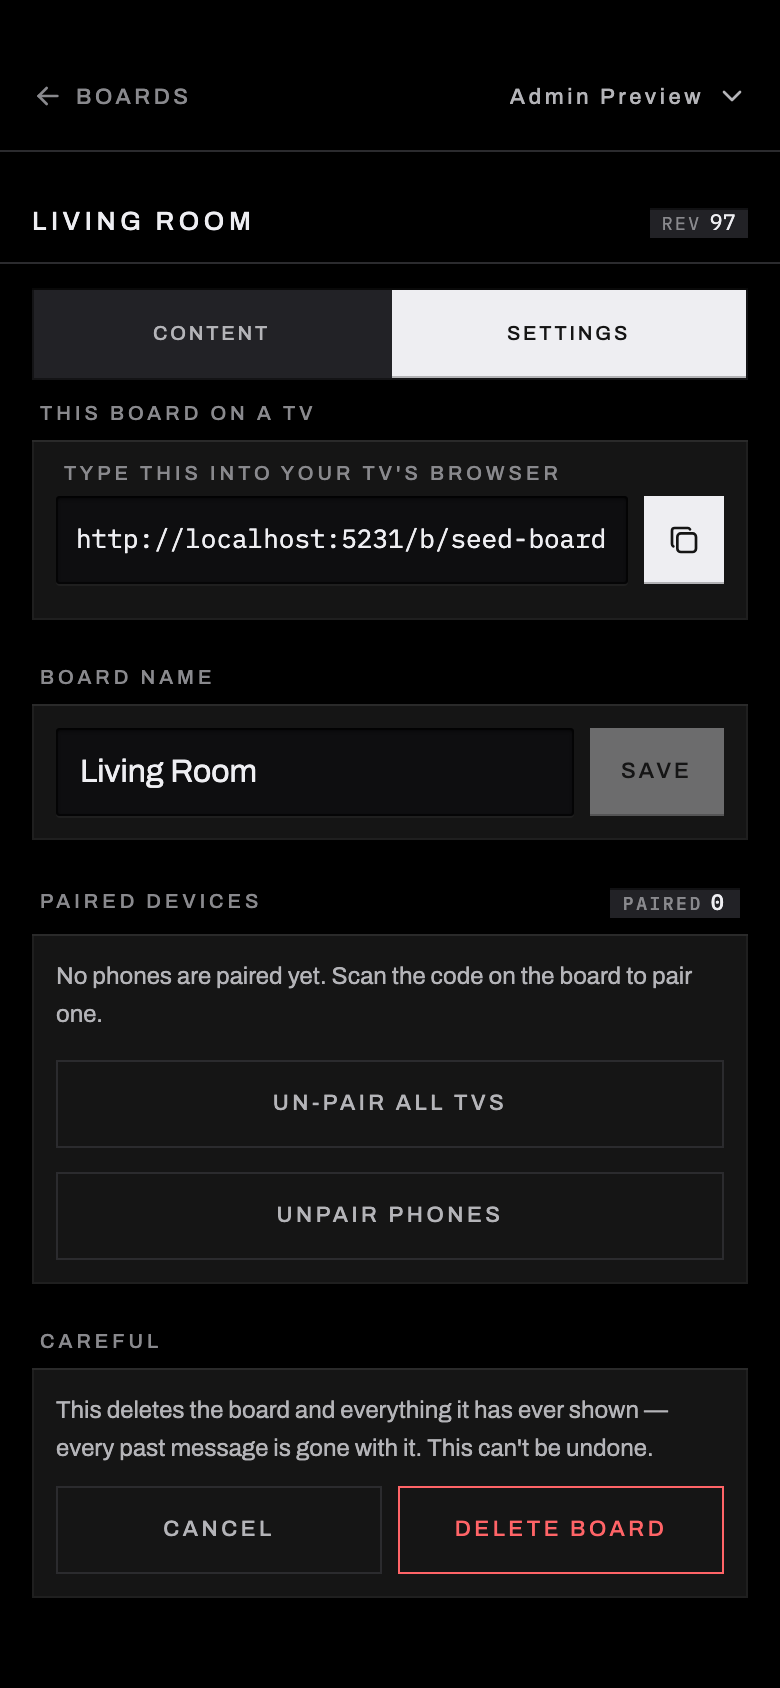
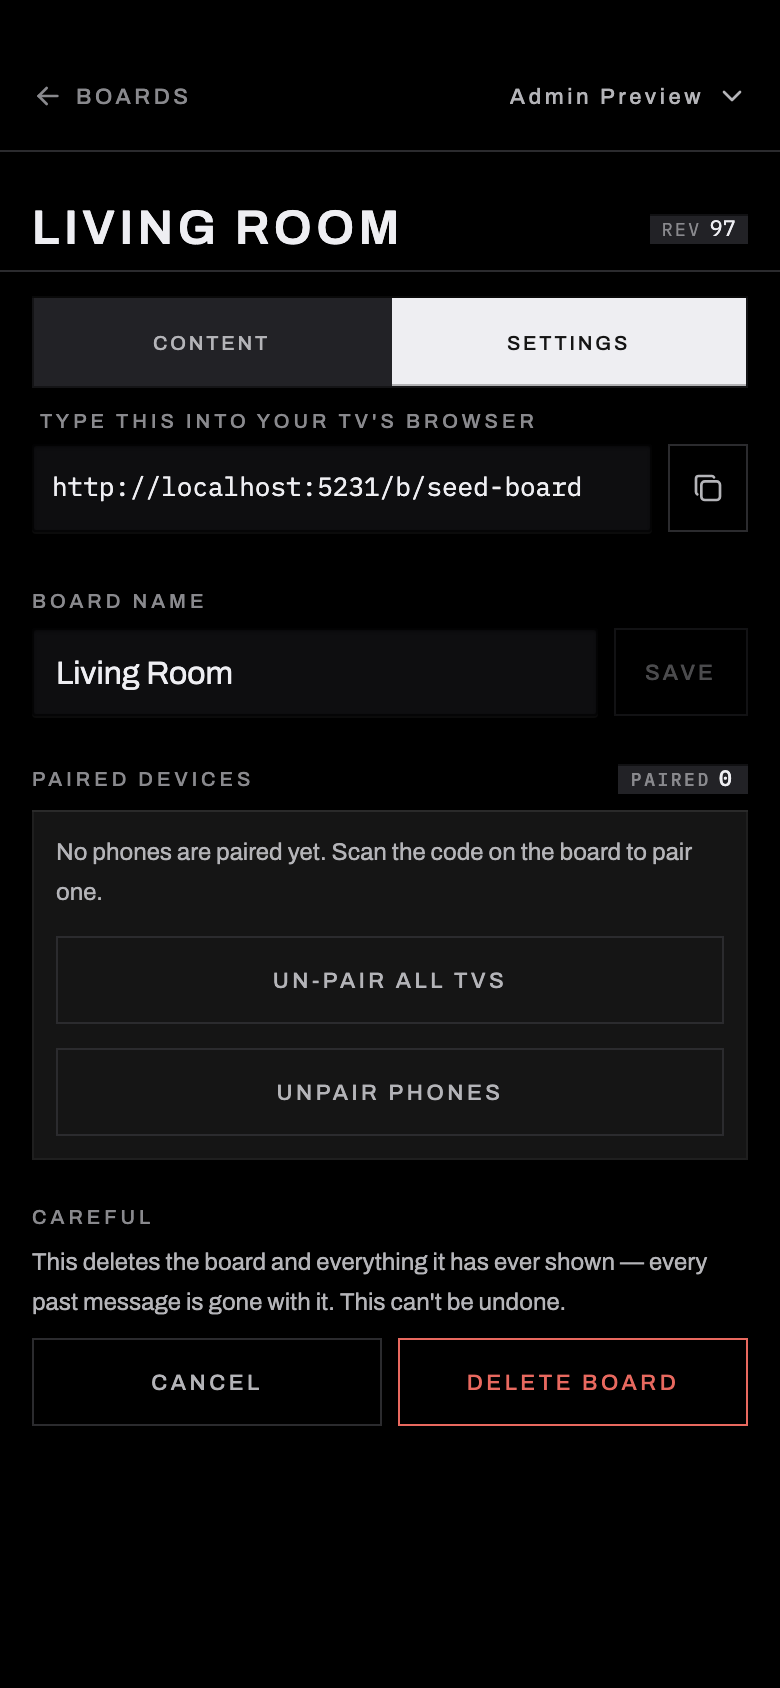
docs(brain): record the three design-critic rounds and refresh screenshots
Two DO NOT SHIP verdicts, what each caught, and — the part worth keeping —
a table of why the mechanical gates could not see any of it. The /link
field measured 1.15:1 because `design:audit`'s contrast check never looked
at a field holding no text; the 31x32 swatches were never reached by a
14-stop focus walk; three coexisting encodings of "selected" each pass
contrast and target size individually.

Also records what was deliberately left: desktop composition, /tv at 1440,
two copy repeats. All P2, none phone-first.

Screenshots re-captured from the current render.

diff --git a/.brain/features/console-journey-v2/verifications/2026-07-31.md b/.brain/features/console-journey-v2/verifications/2026-07-31.md
@@ -57,6 +57,25 @@ Driven at 390×844 after the fixes below. **Read after a 400ms settle, never on 
 
 **Not a defect, recorded so it is not re-litigated:** the `zh` rack still shows board *names* in Latin flaps. The board's charset is Latin-only by construction (`BOARD_CHARS`), so a CJK board name folds away — the surrounding UI is fully translated, which is what the parity test guards.
 
+## Design critique — three rounds
+
+`design-critic` judges the render, never the source, and its verdict is blocking. It returned **DO NOT SHIP twice**. Both times it was right, and both times part of what it found was invisible to every other gate in this document — typecheck, unit tests, e2e, the browser walk and `design:audit` all passed on renders it rejected.
+
+**Round 1 → DO NOT SHIP, six P1s.** Confirmed two of the three blockers carried over from the phase-1 verdict as resolved *in the pixels* (the pigments are spent; the app and hardware surfaces read as one product) and called the third partial. New: `/link` was the only screen with no product on it — "cover the wordmark and it is Netflix's TV pairing"; the card had been restyled rather than removed; the mute `Switch` was the only pill and the only circle in a 0px-radius product *and* read backwards, since `checked` meant muted; nothing anywhere exceeded ~20px, so the wordmark, the page title and a board's name were peers; the app never used its own voice on itself; and the disabled SAVE key composited to a flat mid-grey found nowhere else.
+
+**Round 2 → DO NOT SHIP, four P1s**, and it **refuted part of round 1's fix**: `/link`'s caret only painted while focused, so at rest six unlit tiles measured **1.15:1** against their plate — no way to see it was a field. It also caught that the 44px sweep in this document had never reached the pigment swatches (31×32 with 5px gaps), that three different encodings of "selected" now coexisted, and that the de-carding had landed on Settings only.
+
+**What the mechanical gates could not see, and why:**
+
+| Defect | Why the gate missed it |
+|---|---|
+| `/link` field at 1.15:1 | `design:audit`'s 10.16:1 body-contrast pass never looked at it — the field holds **no text** at rest |
+| 31×32 swatches | the focus walk tabs through 14 stops and never reaches them |
+| Three "selected" encodings | every one of them passes contrast and target size individually |
+| Mute switch reading backwards | `aria-checked` was correct; the *semantics* were inverted |
+
+**Deliberately not taken, and recorded as owed rather than fixed:** desktop composition (a 416px column centred in 1440 with no adaptation — the rack is the one screen with content worth arranging at width), `/tv` at 1440 (the code strip is ~250px on a screen meant to be read across a room), and two copy repeats. All P2, none of them phone-first, and the desktop pass is properly its own piece of work.
+
 ## Findings for main thread
 
 - **The QR-scan happy path is not driven here.** It needs a real second device holding the TV's socket; this walk covers the typed-code fallback and the refusal. The scan path's server logic is unchanged except that `resolveAutoLink`'s branch was deleted, and the loader and the action now share one `pairNewBoard`, so both halves take the identical code path — the typed submit above exercises it.
